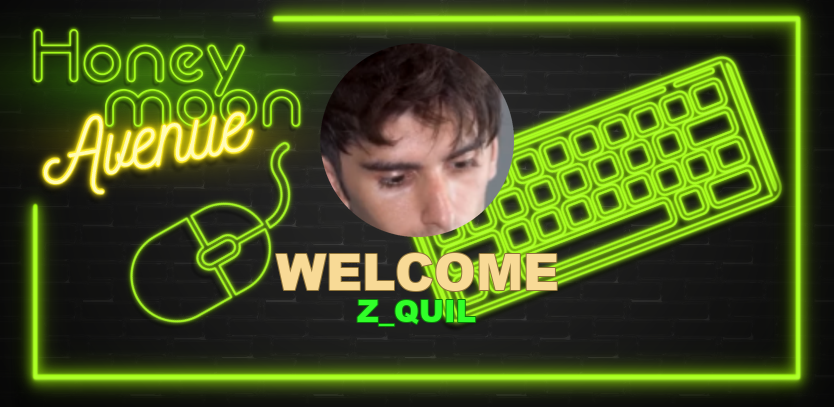
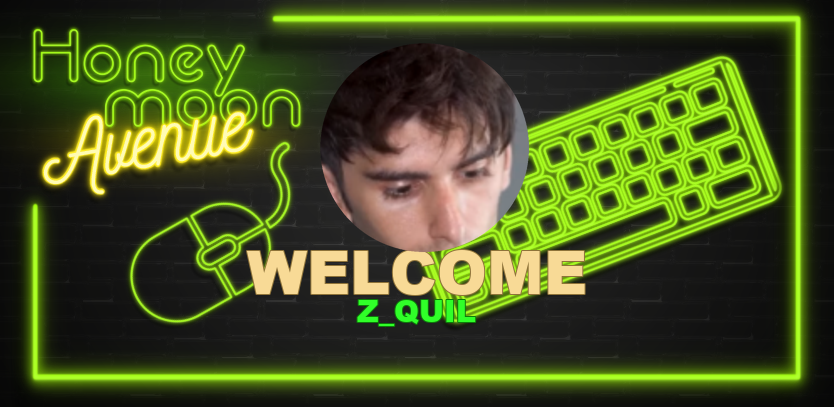
d:

diff --git a/cogs/welcome.py b/cogs/welcome.py
@@ -22,7 +22,7 @@ class welcome(commands.Cog):
         data = BytesIO(await av.read())
             
         pfp = Image.open(data)
-        pfp = pfp.resize((200, 200))
+        pfp = pfp.resize((215, 215))
             
         bigsize = (pfp.size[0] * 3, pfp.size[1] * 3)
         mask = Image.new('L', bigsize, 0)
@@ -50,7 +50,7 @@ class welcome(commands.Cog):
         # back_im = im1.copy()
         # back_im.paste(im2,(im2_x, im2_y))
         
-        welcome_font = ImageFont.truetype("ariblk.ttf", 50)
+        welcome_font = ImageFont.truetype("ariblk.ttf", 60)
         name_font = ImageFont.truetype("ariblk.ttf", 30)
         welcome_color = (248,218,150) # RGB
         user_color = (48,255,41) # RGB

diff --git a/load_cogs.py b/load_cogs.py
@@ -9,7 +9,7 @@ intents = discord.Intents.all()
 intents.members = True
 
 # Create a bot instance with a command prefix and intents
-bot = commands.Bot(command_prefix="!", intents=intents, help_command=None)
+bot = commands.Bot(command_prefix="$", intents=intents, help_command=None)
 
 @bot.event
 async def on_ready():
